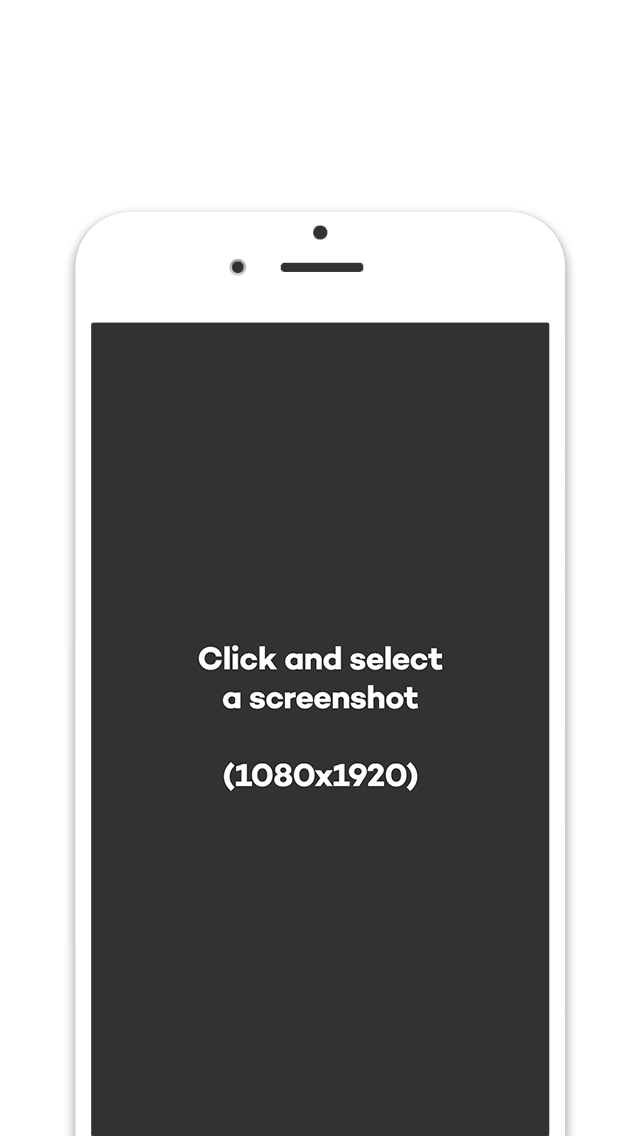
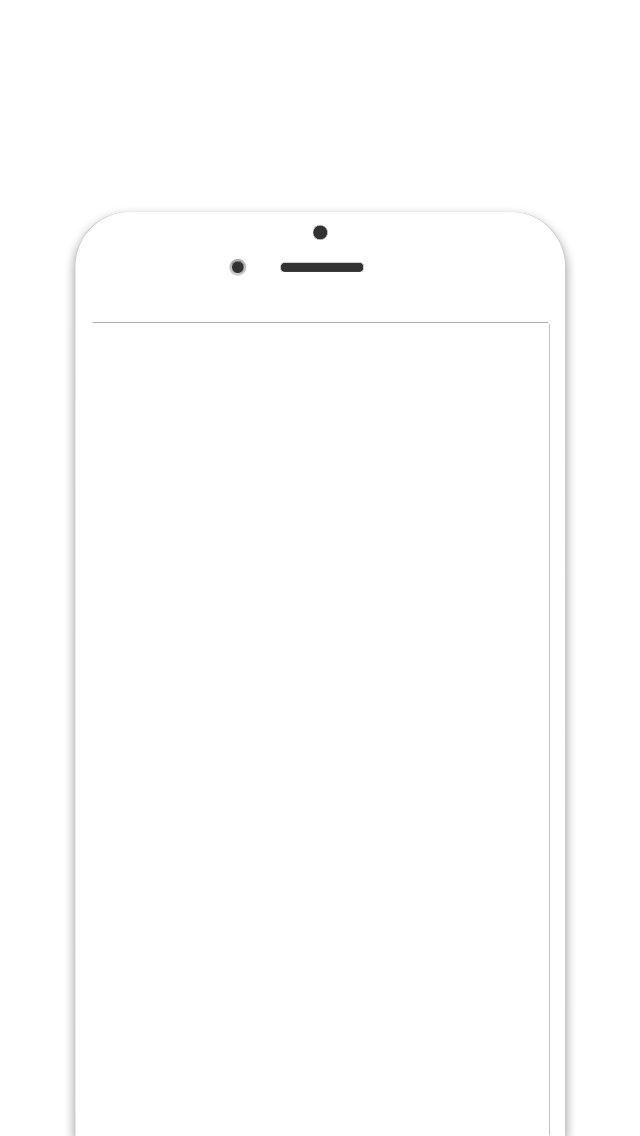
Added more devices and made phone outline draw over the screenshot

diff --git a/src/App.vue b/src/App.vue
@@ -42,9 +42,14 @@
 									<select
 										class="shadow block appearance-none w-full bg-white border border-gray-200 text-gray-700 py-3 px-4 pr-8 rounded leading-tight focus:outline-none focus:bg-white focus:border-gray-500"
 										v-model="scene.phone">
-										<option value="nexus">Nexus</option>
 										<option value="iphone">iPhone</option>
+										<option value="iphone_se_black">iPhone SE Black</option>
+										<option value="iphone_13_pro_max_graphite">iPhone 13 Pro Max Graphite</option>
+										<option value="nexus">Nexus</option>
 										<option value="nexus_black">Nexus Black</option>
+										<option value="pixel_5_just_black">Pixel 5 Just Black</option>
+										<option value="s21_ultra_black">S21 Ultra Black</option>
+										<option value="mi_mix_alpha">Mi Mix Alpha</option>
 									</select>
 									<div
 										class="pointer-events-none absolute inset-y-0 right-0 flex items-center px-2 text-gray-700">

diff --git a/src/components/Scene.vue b/src/components/Scene.vue
@@ -6,8 +6,9 @@
             <div class="editable-area flex justify-center items-center h-48 py-8 text-center overflow-hidden" :style="{'font-family': scene.fontFamily, 'font-size': scene.fontSize + 'px', 'color': scene.textColor.hex8 }">
 				{{ scene.text }}
             </div>
-            <img :src="require(`@/assets/images/${scene.phone}.png`)" alt="" class="phone-frame absolute bottom-0 w-full h-auto">
+			<img :src="require(`@/assets/images/click_and_select.png`)" class="screenshot-cover">
             <div class="screenshot-cover" :style="scene.screenshotBase64 ? {'background-image': 'url(' + scene.screenshotBase64 + ')'} : ''"></div>
+            <img :src="require(`@/assets/images/${scene.phone}.png`)" alt="" class="phone-frame absolute bottom-0 w-full h-auto">
         </div>
     </div>
 </template>
